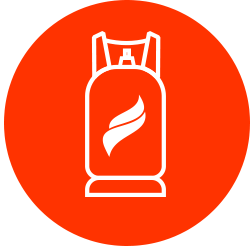
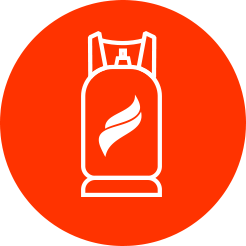
BUG0156
Re-design Gas24h

diff --git a/harpyframework/harpyframework/Utility/DomainConst.swift b/harpyframework/harpyframework/Utility/DomainConst.swift
@@ -1726,17 +1726,21 @@ public class DomainConst {
     /** Version image name */
     public static let CATEGORY_DETAIL_ICON_IMG_NAME         = "categoryDetail.png"
     /** Version image name */
-    public static let CATEGORY_GAS_ICON_IMG_NAME               = "categoryGAS.png"
+    public static let CATEGORY_GAS_ICON_IMG_NAME            = "categoryGAS.png"
     /** Version image name */
-    public static let CATEGORY_VIP_ICON_IMG_NAME               = "categoryVIP.png"
+    public static let CATEGORY_VIP_ICON_IMG_NAME            = "categoryVIP.png"
     /** Version image name */
-    public static let ORDER_BUTTON_ICON_IMG_NAME               = "orderbtn.png"
+    public static let ORDER_BUTTON_ICON_IMG_NAME            = "orderbtn.png"
     /** Version image name */
-    public static let SUPPORT_BUTTON_ICON_IMG_NAME               = "supportbtn.png"
+    public static let SUPPORT_BUTTON_ICON_IMG_NAME          = "supportbtn.png"
     /** Version image name */
-    public static let PROMOTE_BUTTON_ICON_IMG_NAME               = "promoteBtn.png"
+    public static let PROMOTE_BUTTON_ICON_IMG_NAME          = "promoteBtn.png"
     /** Version image name */
-    public static let GAS_BUTTON_ICON_IMG_NAME               = "gasbtn.png"
+    public static let GAS_BUTTON_ICON_IMG_NAME              = "gasbtn.png"
+    /** Version image name */
+    public static let PROCESSING_BUTTON_ICON_IMG_NAME       = "processingbtn.png"
+    /** Version image name */
+    public static let CANCEL_ORDER_BUTTON_ICON_IMG_NAME     = "cancelOrderbtn.png"
     /** Login background image [iphone] */
     public static let LOGIN_BKG_IPHONE_IMG_NAME             = "signup_bg_1080_1920.png"
     /** Login background image [ipad] */
@@ -2222,4 +2226,10 @@ public class DomainConst {
     public static let CONTENT00484 = "Hỗ trợ"
     public static let CONTENT00485 = "Chọn gas"
     public static let CONTENT00486 = "Chọn quà"
+    public static let CONTENT00487 = "Đơn hàng của bạn đang được xử lý"
+    public static let CONTENT00488 = "vui lòng chờ trong giây lát..."
+    public static let CONTENT00489 = "Đơn hàng hoàn tất!"
+    public static let CONTENT00490 = "Chạm vào biểu tượng để xem hoá đơn."
+    public static let CONTENT00491 = "Cám ơn Quý Khách"
+    public static let CONTENT00492 = "Giới thiệu người thân cài đặt ứng dụng, NHẬN MÃ GIẢM GIÁ"
 }

diff --git a/harpyframework/harpyframework/View/BaseMenuViewController.swift b/harpyframework/harpyframework/View/BaseMenuViewController.swift
@@ -305,7 +305,10 @@ open class BaseMenuViewController : UIViewController {
             currentView.pushToViewAndClearData(name: DomainConst.G00_CONFIGURATION_VIEW_CTRL)
             break
         case DomainConst.G00_LOGIN_VIEW_CTRL:               // Login menu
-            currentView.pushToView(name: DomainConst.G00_LOGIN_VIEW_CTRL)
+            //++ BUG0156-SPJ (NguyenPT 20170922) Re-design Gas24h
+            //currentView.pushToView(name: DomainConst.G00_LOGIN_VIEW_CTRL)
+            openLogin()
+            //-- BUG0156-SPJ (NguyenPT 20170922) Re-design Gas24h
             break
         case DomainConst.NOTIFY_NAME_LOGOUT_ITEM:           // Logout menu
             LogoutRequest.requestLogout(action: #selector(currentView.finishRequestLogout), view: currentView)
@@ -572,4 +575,12 @@ open class BaseMenuViewController : UIViewController {
         return iconPath
     }
     //-- BUG0121-SPJ (NguyenPT 20170712) Add menu to Home
+    //++ BUG0156-SPJ (NguyenPT 20170922) Re-design Gas24h
+    /**
+     * Handle open login view
+     */
+    open func openLogin() {
+        
+    }
+    //-- BUG0156-SPJ (NguyenPT 20170922) Re-design Gas24h
 }

diff --git a/harpyframework/harpyframework/Utility/GlobalConst.swift b/harpyframework/harpyframework/Utility/GlobalConst.swift
@@ -143,7 +143,7 @@ public class GlobalConst {
     public static let LOGIN_LOGO_Y_POS_FHD:         CGFloat = 530
     /** Y position of Login logo */
     public static let LOGIN_LOGO_Y_POS_FHD_LAND:    CGFloat = 130
-    /** Width of Login textfield */
+    /** Width of Logi       n textfield */
     public static let LOGIN_TEXTFIELD_WIDTH:        CGFloat = 860
     /** Height of Login textfield */
     public static let LOGIN_TEXTFIELD_HEIGHT:       CGFloat = 135
@@ -163,4 +163,6 @@ public class GlobalConst {
     public static let ORDER_BUTTON_SIZE:            CGFloat = 250
     /** Size of button action */
     public static let BUTTON_ACTION_SIZE:           CGFloat = 250
+    /** Width of Cancel order button */
+    public static let BUTTON_CANCEL_ORDER_WIDTH:    CGFloat = 600
 }
